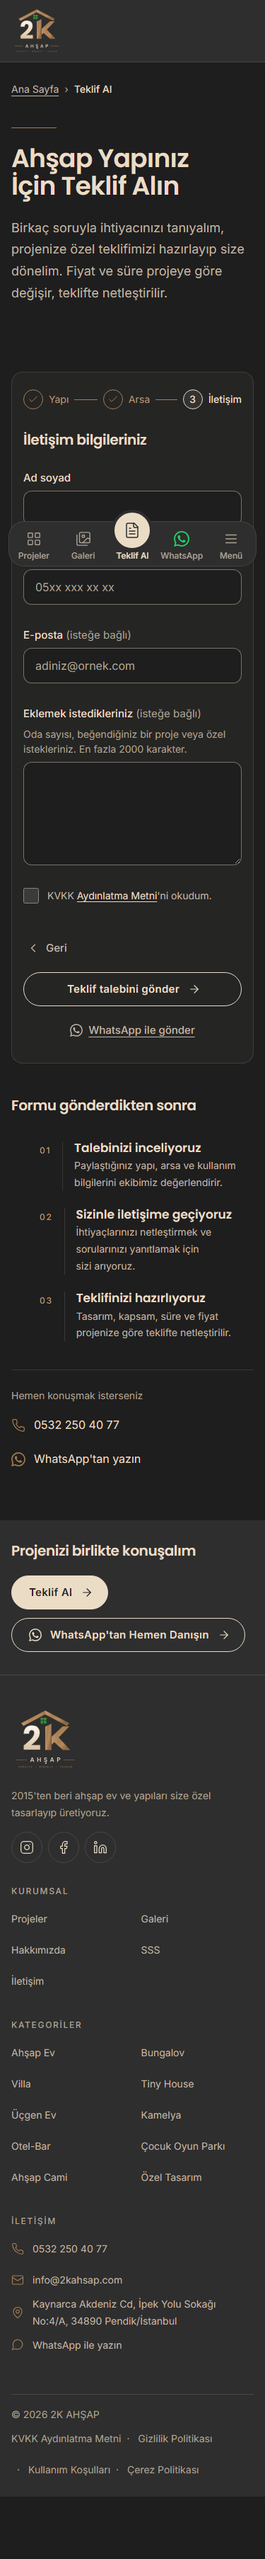
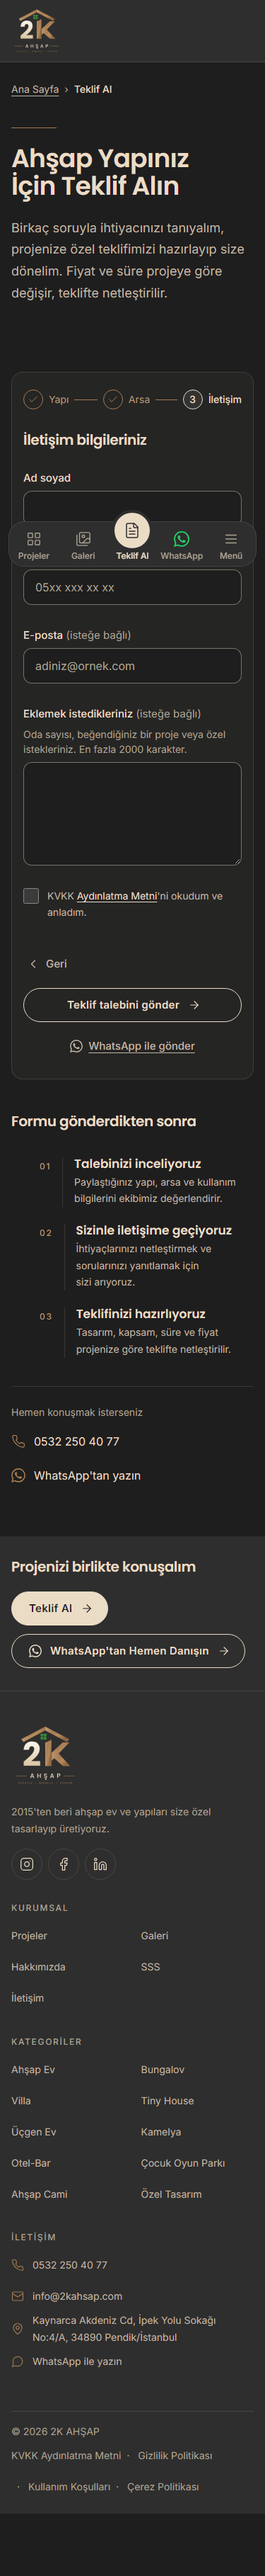
KVKK kutusu: "okudum ve anladım", e-postada "Aydınlatma teyidi", dokunma alanı 44 px
KVK Kurulu 2026/347 ilke kararı: aydınlatma metni onaya bağlanmaz. Kutu metni, hata mesajı,
WhatsApp satırı ve e-posta alanları ("Aydınlatma teyidi", "Aydınlatma teyidi zamanı") buna göre.
Kutu boş ve zorunlu kalır; link, name/value ve gönderim akışı aynı, form envanteri değişmedi.
Tıklama alanı dokunma-alani ile 44 px; hata satırının uyarı ikonu tıklamayı geçirir.
İ ve T3 referansları yenilendi (6 çekim, kullanıcı onaylı).

diff --git a/src/scripts/form.ts b/src/scripts/form.ts
@@ -53,7 +53,7 @@ export const kural = {
   },
   eposta: (d: string) =>
     !d || /^[^\s@]+@[^\s@]+\.[^\s@]{2,}$/.test(d) ? null : 'E-posta adresinizi kontrol edin, ör. adiniz@ornek.com.',
-  kvkk: (d: string) => (d ? null : "Formu gönderebilmek için KVKK Aydınlatma Metni'ni okuduğunuzu işaretleyin."),
+  kvkk: (d: string) => (d ? null : "Formu gönderebilmek için KVKK Aydınlatma Metni'ni okuyup anladığınızı işaretleyin."),
 };
 
 const tarih = (t: Date) =>
@@ -231,7 +231,7 @@ export function formuKur(form: HTMLFormElement, ayar: FormAyari) {
       const dolu = doluAlanlar(b.alanlar);
       if (dolu.length) satirlar.push(`*${b.baslik}*`, ...dolu.map(([e, d]) => `${e}: ${d}`), '');
     }
-    satirlar.push(`KVKK Aydınlatma Metni'ni okudum (${tarih(onayZamani ?? new Date())}).`);
+    satirlar.push(`KVKK Aydınlatma Metni'ni okudum ve anladım (${tarih(onayZamani ?? new Date())}).`);
     return satirlar.join('\n');
   };
 
@@ -245,8 +245,8 @@ export function formuKur(form: HTMLFormElement, ayar: FormAyari) {
     if (eposta) veri.replyto = eposta;
     for (const b of ayar.bolumler) for (const [e, d] of doluAlanlar(b.alanlar)) veri[e] = d;
     const t = onayZamani ?? new Date();
-    veri['KVKK onayı'] = "Evet. KVKK Aydınlatma Metni'ni okuduğunu işaretledi.";
-    veri['KVKK onay zamanı'] = `${tarih(t)} · ${t.toISOString()}`;
+    veri['Aydınlatma teyidi'] = "Evet. KVKK Aydınlatma Metni'ni okuyup anladığını işaretledi.";
+    veri['Aydınlatma teyidi zamanı'] = `${tarih(t)} · ${t.toISOString()}`;
     veri['Gönderildiği sayfa'] = location.href;
     return veri;
   };

diff --git a/src/styles/form.css b/src/styles/form.css
@@ -69,6 +69,8 @@
   background: currentColor;
   -webkit-mask: var(--ikon-uyari) center / contain no-repeat;
   mask: var(--ikon-uyari) center / contain no-repeat;
+  /* Süs ikonu; mask onu ayrı katmana alır. Tıklamayı geçirir: KVKK kutusunun genişleyen dokunma alanını örtmez. */
+  pointer-events: none;
 }
 
 /* Metin girdisi, seçim listesi, metin alanı. 16px yazı: iOS odakta yakınlaştırmaz */

diff --git a/docs/guvenli-mod/README.md b/docs/guvenli-mod/README.md
@@ -120,6 +120,7 @@ Tek pikselden küçük bir değişiklik (çok küçük puntoda bir nokta gibi) g
 | 25 Ekim 2026 | Bu satırı ekleyen commit (kod ve referanslar birlikte) | A 375/768/1280, A1 768 ve Ç 768 yenilendi (5 referans; kullanıcı onaylı): Ürünlerimiz on kategori kartlık, elle kaydırılan şerit oldu (kart numaraları, kategori düğmeleri ve ara tondaki bant kalktı; bölüm tek gece zemin; ≥ 768px'te kartların yanında oklar, sağ kenar zemine karışır; "Tüm projeler" başlıkta, mobilde kartların altında). Boy: A 375 7485 → 7285, 768 6291 → 5624, 1280 4508 → 4452. A1 768 ve Ç 768'de yalnızca ilk ekranın altındaki kart üstleri ve link değişti. A1 412, Ç 375 ve Ç 1280 %0 aynı (yeni çekimlerdeki 50–128 baytlık gürültü yüzünden yenilenmedi). Önceki tam koşuda diğer 43 çekim %0 aynıydı. 768px'teki "yüklenemeyen görsel" uyarısı zararsız: ilk ekran çekimi şeridin ekran dışındaki lazy görsellerini bekliyor. |
 | 26 Ekim 2026 | Bu satırı ekleyen commit (kod ve referanslar birlikte) | Yalnızca İ yenilendi (3 referans; kullanıcı onaylı): "Bize ulaşın" listesine Adres'in altına "Çalışma saatleri" satırı (saat ikonu, "Pazartesi–Cumartesi 08:00–19:00, Pazar kapalı"). Boy: İ 375 3907 → 4005, 768 3280 → 3353, 1280 2119 → 2146; 1280'de form kartı sol sütunla aynı boyda durduğu için 27 px uzadı. Eklemenin altı, eklenen yükseklik kadar kaydırılınca referansla %0,15–0,19 farklı (alt piksel metin gürültüsü; 1280'de form sütunu kaymadığı için %3). M1 ve M2 %0 aynı. Aynı koşuda K ve S de yenilendi (sonraki satır); diğer 39 çekim %0 aynıydı. |
 | 26 Ekim 2026 | Bu satırı ekleyen commit (kod ve referanslar birlikte) | K ve S yenilendi (6 referans; kullanıcı onaylı): rakam vermeyen iki yeni SSS sorusu, "Bungalov fiyatları neye göre belirlenir?" (K'de listenin başında) ve "Tiny house fiyatları neye göre belirlenir?" (S'de ikisi Fiyat ve Ödeme grubunda, "Ahşap ev fiyatları"nın altında). Boy: K 375 4098 → 4188, 768 3109 → 3187, 1280 2369 → 2447; S 375 5633 → 5815, 768 4877 → 5033, 1280 4207 → 4363. Eklemenin altı, kaydırılınca referansla %0–1,6 farklı (alt piksel metin gürültüsü). `/tiny-house` gorsel-kontrol'de yok; ayrıca çekildi. Yenilemeden sonraki koşu 48/48 aynı; `check:sss` 96/96. |
+| 28 Ekim 2026 | Bu satırı ekleyen commit (kod ve referanslar birlikte) | İ ve T3 yenilendi (6 referans; kullanıcı onaylı): KVKK kutusunun metni "KVKK Aydınlatma Metni'ni okudum ve anladım." oldu (KVK Kurulu 2026/347 ilke kararı). 375 px'te metin iki satıra iner, altındaki her şey kayar: İ 4005 → 4027, T3 3614 → 3637. 768 ve 1280 px'te yalnızca satırın sonu değişti, boy aynı. Kutunun görünmez 44 px dokunma alanı pikselleri değiştirmiyor. Yenilemeden önce fark yalnızca bu 6 çekimdeydi; diğer 42 çekim %0 aynıydı. Referanslar aynı koşunun `son/` çekimlerinden kopyalandı. |
 
 ### Bilinen sınırlar
 

diff --git a/docs/onay-bekleyenler.md b/docs/onay-bekleyenler.md
@@ -51,7 +51,7 @@ Bu yer tutucuların karşılığı yoktu. Sitede artık görünmüyorlar; ne yap
 - **Ticari unvan.** Şahıs işletmesinde ticaret unvanı işletme sahibinin adı ve soyadını içerir (TTK md. 40). "Azra Ahşap Ev" bir işletme adı olabilir. Vergi levhasındaki unvanla birebir aynı olmalı.
 - **Marka yazımı.** Prompt'ta "2K Ahşap" yazıyordu. Sitenin her yerinde "2K AHŞAP" kullanıldığı için yasal metinlerde de bu yazım kullanıldı: "Azra Ahşap Ev (2K AHŞAP)". Değiştirmek için `firma.marka` yeterli. Bu durumda header, footer ve schema.org'daki ad da değişir. **Kapandı (14 Ekim 2026):** "2K AHŞAP" yazımı kalır.
 
-## 3. KVKK onay kutusu metni (onaylandı ve uygulandı, 12 Ekim 2026)
+## 3. KVKK onay kutusu metni (onaylandı ve uygulandı, 12 Ekim 2026; güncellendi 28 Ekim 2026)
 
 Teklif formu (`/teklif-al`, 3. adım) ve iletişim formu (`/iletisim`) aynı bileşeni kullanır: `src/components/form/KvkkOnay.astro`.
 
@@ -78,6 +78,18 @@ Teklif formu (`/teklif-al`, 3. adım) ve iletişim formu (`/iletisim`) aynı bil
 | `.claude/skills/guvenlik-kurallari/SKILL.md` §4, örnek onay metni | Kişisel verilerimin, KVKK Aydınlatma Metni kapsamında … işlenmesini kabul ediyorum. | Yeni metin ve kısa gerekçesi. |
 
 E-postadaki alan adı ("KVKK onayı") ve gönderim akışı değişmedi; yalnızca değerler değişti. Form envanteri etkilenmedi.
+
+**Güncelleme (onaylandı ve uygulandı, 28 Ekim 2026):** KVK Kurulu'nun 2026/347 sayılı ilke kararına göre aydınlatma metni "onaylıyorum / kabul ediyorum" ifadesiyle onaya bağlanmaz, "okudum ve anladım" kullanılır.
+
+| Yer | Önceki | Şimdi |
+|---|---|---|
+| Kutu metni (`KvkkOnay.astro`) | KVKK Aydınlatma Metni'ni okudum. | KVKK Aydınlatma Metni'ni okudum ve anladım. |
+| Hata mesajı (`form.ts`) | … okuduğunuzu işaretleyin. | … okuyup anladığınızı işaretleyin. |
+| WhatsApp mesajının son satırı | KVKK Aydınlatma Metni'ni okudum (tarih). | KVKK Aydınlatma Metni'ni okudum ve anladım (tarih). |
+| E-posta alanı | "KVKK onayı": Evet. KVKK Aydınlatma Metni'ni okuduğunu işaretledi. | "Aydınlatma teyidi": Evet. KVKK Aydınlatma Metni'ni okuyup anladığını işaretledi. |
+| E-posta alanı | "KVKK onay zamanı" | "Aydınlatma teyidi zamanı" |
+
+Kutu yine boş gelir ve zorunludur; link, `name="kvkk"`, `value="Evet"` ve gönderim akışı aynı. Form envanteri değişmedi. Tıklama alanı görünmez katmanla en az 44 px (`dokunma-alani`); hata satırının uyarı ikonu bu alanı örtmesin diye tıklamayı geçirir. İ ve T3 referansları yenilendi (6 çekim; 375 px'te metin iki satıra iner, sayfa 22 px uzar). `/kvkk` §4'teki "Aydınlatma metnini okuduğunuzu işaretlediğiniz bilgisi…" cümlesi değişmedi.
 
 **Hukukçu kontrolü (yayından önce):** md. 5/2-c gerekçesi bir hukukçu tarafından teyit edilmedi (bkz. "Hukukçuya sorulacaklar").
 

diff --git a/.claude/skills/guvenlik-kurallari/SKILL.md b/.claude/skills/guvenlik-kurallari/SKILL.md
@@ -48,13 +48,16 @@ Kullanıcı dosya yükleyebiliyorsa:
 İletişim formunda toplanan veriler: ad soyad, e-posta, telefon, mesaj.
 
 Kurallar:
-1. **Açık onay:** Gönder butonundan önce işaretlenmesi zorunlu KVKK onay kutusu olmalı ve Aydınlatma Metni sayfasına link vermeli.
+1. **Aydınlatma teyidi:** Gönder butonundan önce işaretlenmesi zorunlu KVKK kutusu olmalı ve Aydınlatma Metni sayfasına link vermeli.
 2. **Saklama:** Veriler en fazla 1 yıl tutulur.
 3. **Paylaşmama:** Veriler üçüncü kişilerle paylaşılmaz (form servisi hariç, bu Aydınlatma Metni'nde belirtilir).
 4. **Silme hakkı:** Kullanıcı verilerinin silinmesini talep edebilir.
 
-Onay kutusu metni (sitede kullanılan, onaylı):
-"KVKK Aydınlatma Metni'ni okudum." ("Aydınlatma Metni" /kvkk sayfasına yeni sekmede açılan link)
+Kutu metni (sitede kullanılan, onaylı, 28 Ekim 2026):
+"KVKK Aydınlatma Metni'ni okudum ve anladım." ("Aydınlatma Metni" /kvkk sayfasına yeni sekmede açılan link)
+Aydınlatma metni "onaylıyorum / kabul ediyorum" ifadesiyle onaya bağlanmaz, "okudum ve anladım" kullanılır
+(KVK Kurulu 2026/347 sayılı ilke kararı). E-postada alanlar "Aydınlatma teyidi" ve "Aydınlatma teyidi zamanı".
+Kutunun tıklama alanı görünmez katmanla en az 44 px (`dokunma-alani`, global.css).
 
 Kutu açık rıza istemez; aydınlatma metninin okunduğunu belirtir. Talebin yanıtlanması için veri işleme
 açık rızaya değil KVKK md. 5/2-c'ye dayanır ve açık rıza bir hizmetin ön şartı yapılmaz. Kutu sayfa
